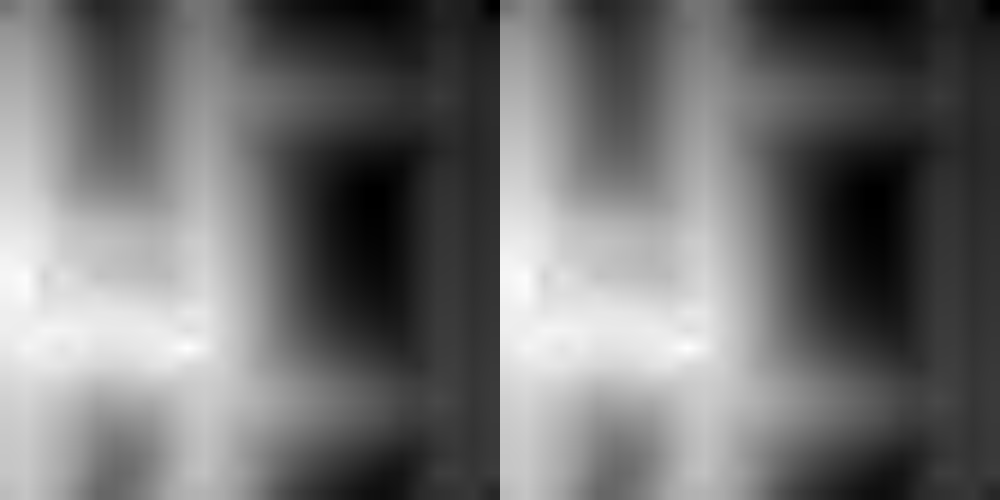
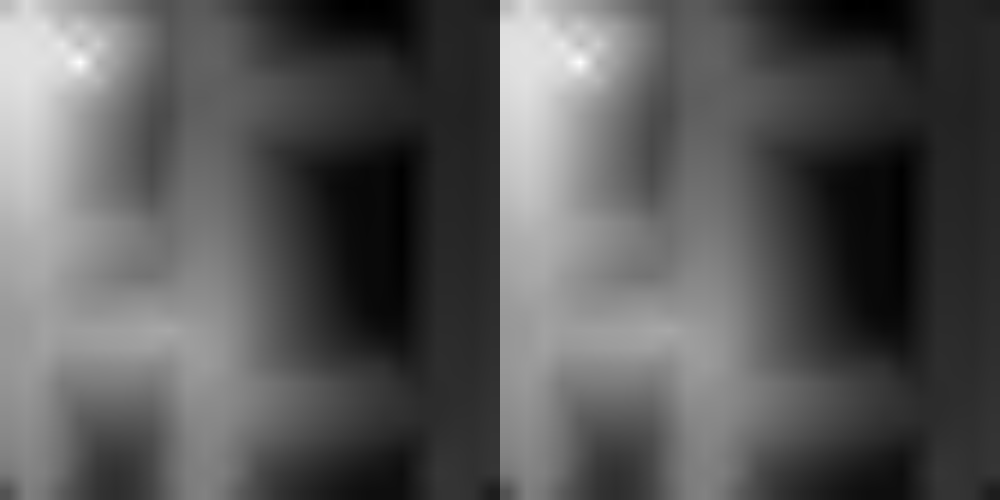
changed reward

diff --git a/Python/vin/test.py b/Python/vin/test.py
@@ -25,14 +25,15 @@ def runAgent(map, value):
 	nSteps = 2000
 	actions = np.linspace(0,2*math.pi,nActions)
 	x = np.array([[1.1], [1.1]])
-	v = 1
-	dt = 1.0
+	v = 0.1
+	dt = 0.5
 	X = x
 	u = []
 	goal = np.where(map[-1] == 1)
-	for k in range(nSteps):
+	goal = [goal[0][0], goal[1][0]]
+	while(True):
 	  xNew = dynamics(x,actions,dt)
-	  vals = cv2.remap(value, xNew[0,:].astype('float32'), xNew[1,:].astype('float32'), cv2.INTER_LINEAR,borderValue = -1000)
+	  vals = cv2.remap(value, xNew[0,:].astype('float32'), xNew[1,:].astype('float32'), cv2.INTER_LINEAR, borderValue = -1000)
 	  maxVal = np.max(vals)
 	  probs = np.exp(1000.0*(vals-maxVal))
 	  totalProb = np.sum(probs)
@@ -82,12 +83,15 @@ def test(net, testloader, config, use_GPU):
         inputMap = Variable(X)
         outputs = net(inputMap, config)
         prediction, label = outputs.squeeze().data.numpy(), labels.squeeze().numpy()
+        print(label.max(), prediction.max())
+        print(label.min(), prediction.min())
         semanticMap = X.squeeze().numpy()
         trajPredicted = runAgent(semanticMap, prediction)
         trajOptimal = runAgent(semanticMap, label)
-        plt.imshow(label)
+        plt.imshow(prediction)
         plt.scatter(trajPredicted[0,:], trajPredicted[1,:],c='k',s=2)
         plt.scatter(trajOptimal[0,:], trajOptimal[1,:],c='m',s=2)
         plt.show()
+
 
 

diff --git a/Python/vin/main.py b/Python/vin/main.py
@@ -62,7 +62,7 @@ if __name__ == '__main__':
                         help='Number of channels in first hidden layer')
     parser.add_argument('--l_q', 
                         type=int, 
-                        default=8, 
+                        default=24, 
                         help='Number of channels in q layer (~actions) in VI-module')
     parser.add_argument('--batch_size', 
                         type=int, 
@@ -87,7 +87,7 @@ if __name__ == '__main__':
     criterion = nn.MSELoss()
     #optimizer = torch.optim.SGD(net.parameters(), lr = config.lr, momentum=0.9)
     optimizer = torch.optim.Adam(net.parameters(), lr = config.lr, betas=(0.9,0.999),eps=1e-08,weight_decay=0) #converges better
-    train(net, trainloader, config, criterion, optimizer, use_GPU)
-    checkValue(net, testloader, config, use_GPU)
-    #test(net, testloader, config, use_GPU)
+    #train(net, trainloader, config, criterion, optimizer, use_GPU)
+    #checkValue(net, testloader, config, use_GPU)
+    test(net, testloader, config, use_GPU)
     #torch.save(net, save_path)

diff --git a/Python/vin/make_training_data.py b/Python/vin/make_training_data.py
@@ -23,7 +23,6 @@ def dynamics(x,u,dt):
 def runValueIterations(name, gridSize, goalX, goalY):
 
 	global img
-
 	gridHeight = gridSize[0]
 	gridWidth = gridSize[1]
 	nActions = 24
@@ -36,10 +35,10 @@ def runValueIterations(name, gridSize, goalX, goalY):
 	bChannel = (img[:,:,2] == 1)
 
 	R = np.zeros(img[:,:,0].shape)
-	R[rChannel] = -2
-	R[gChannel] = -0.5
-	R[bChannel] = -1 # will only be used if there are 3 features
-	R[goalY,goalX] = 1.0
+	R[rChannel] = -10
+	R[gChannel] = -1
+	R[bChannel] = -2 # will only be used if there are 3 features
+	R[goalY,goalX] = 10.0
 
 	value = R.copy()
 
@@ -70,7 +69,6 @@ def runValueIterations(name, gridSize, goalX, goalY):
 	inp[3,goalY,goalX] = int(1)
 
 	label = value
-
 	minValue, maxValue = np.min(label), np.max(label)
 	label = (label - minValue)/(maxValue - minValue)
 
